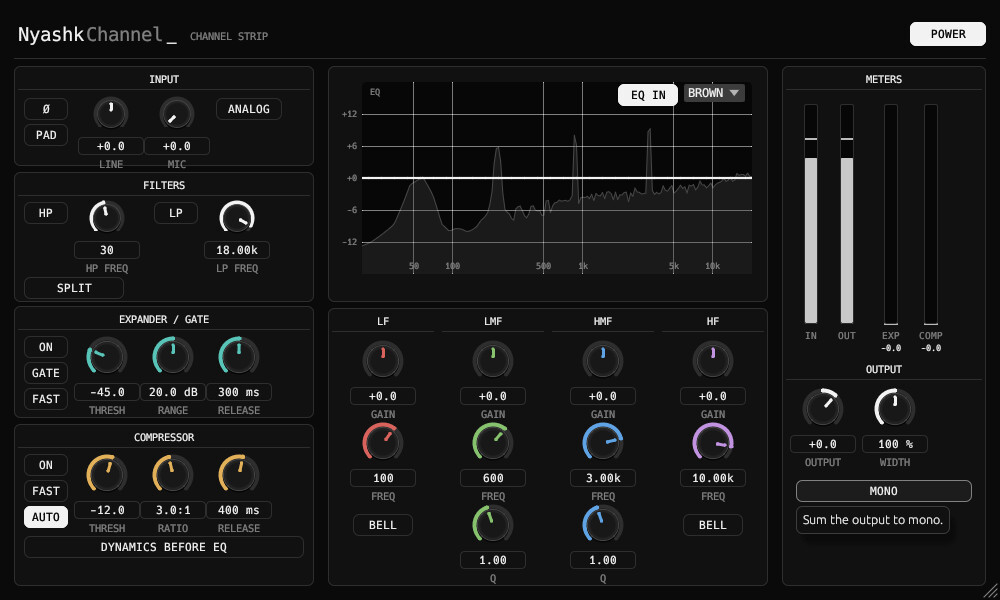
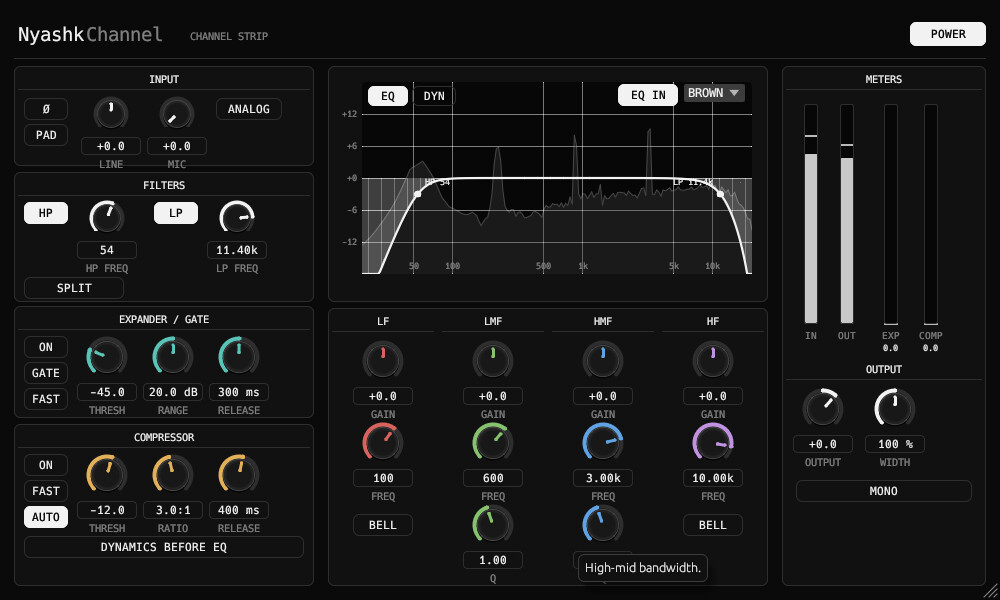
v1.0.2: HP/LP filters on the graph, DYN view (expander/compressor curve), value boxes no longer run into each other
Claude-Session: https://claude.ai/code/session_013jKKu2jZ6gVHt6eEoTXE3F

diff --git a/plugins/nyashkchannel/src/editor.rs b/plugins/nyashkchannel/src/editor.rs
@@ -19,6 +19,8 @@ struct Gui {
     lv: [f32; 4],
     hold: [f32; 4],
     gr: [f32; 2],
+    /// graph view: false = EQ + filters, true = dynamics curve
+    dyn_view: bool,
 }
 
 pub fn create(params: Arc<ChannelParams>, meters: Arc<Meters>) -> Option<Box<dyn Editor>> {
@@ -26,7 +28,7 @@ pub fn create(params: Arc<ChannelParams>, meters: Arc<Meters>) -> Option<Box<dyn
     let size_state = editor_state.clone();
     create_egui_editor(
         editor_state,
-        Gui { spec: nyashk_common::analyzer::Spectrum::new(4096), lv: [-90.0; 4], hold: [-90.0; 4], gr: [0.0; 2] },
+        Gui { spec: nyashk_common::analyzer::Spectrum::new(4096), lv: [-90.0; 4], hold: [-90.0; 4], gr: [0.0; 2], dyn_view: false },
         |ctx, _| apply_theme(ctx),
         move |ctx, setter, st| {
             ctx.request_repaint_after(Duration::from_millis(33));
@@ -85,9 +87,13 @@ pub fn create(params: Arc<ChannelParams>, meters: Arc<Meters>) -> Option<Box<dyn
                 panel(ui, rect(lx, 172.0, lw, 130.0));
                 title("FILTERS", lx, 172.0, lw);
                 tg(ui, lx + 10.0, 202.0, 44.0, "HP", p.hp_on.value(), &p.hp_on, "High-pass filter (18 dB/oct).");
-                knob_r(ui, setter, &p.hp_f, "HP FREQ", rect(lx + 60.0, 196.0, cw, 72.0), "High-pass frequency.", false, r - 3.0);
+                if knob_r(ui, setter, &p.hp_f, "HP FREQ", rect(lx + 60.0, 196.0, cw, 72.0), "High-pass frequency.", false, r - 3.0).total.is_some() {
+                    st.dyn_view = false;
+                }
                 tg(ui, lx + 140.0, 202.0, 44.0, "LP", p.lp_on.value(), &p.lp_on, "Low-pass filter (12 dB/oct).");
-                knob_r(ui, setter, &p.lp_f, "LP FREQ", rect(lx + 190.0, 196.0, cw, 72.0), "Low-pass frequency.", false, r - 3.0);
+                if knob_r(ui, setter, &p.lp_f, "LP FREQ", rect(lx + 190.0, 196.0, cw, 72.0), "Low-pass frequency.", false, r - 3.0).total.is_some() {
+                    st.dyn_view = false;
+                }
                 tg(ui, lx + 10.0, 277.0, 100.0, "SPLIT", p.split.value(), &p.split, "Filters act on the dynamics sidechain only, not on the audio.");
 
                 // expander / gate
@@ -96,8 +102,12 @@ pub fn create(params: Arc<ChannelParams>, meters: Arc<Meters>) -> Option<Box<dyn
                 tg(ui, lx + 10.0, 336.0, 44.0, "ON", p.x_on.value(), &p.x_on, "Switch the expander on.");
                 tg(ui, lx + 10.0, 362.0, 44.0, "GATE", p.x_gate.value(), &p.x_gate, "Hard gate instead of a soft expander.");
                 tg(ui, lx + 10.0, 388.0, 44.0, "FAST", p.x_fast.value(), &p.x_fast, "Fast attack.");
-                knob_ac(ui, setter, &p.x_thr, "THRESH", rect(lx + 60.0, 332.0, cw, ch), "Level below which the signal is reduced.", false, r, C_GATE);
-                knob_ac(ui, setter, &p.x_range, "RANGE", rect(lx + 60.0 + cw, 332.0, cw, ch), "Maximum reduction in dB.", false, r, C_GATE);
+                if knob_ac(ui, setter, &p.x_thr, "THRESH", rect(lx + 60.0, 332.0, cw, ch), "Level below which the signal is reduced.", false, r, C_GATE).total.is_some() {
+                    st.dyn_view = true;
+                }
+                if knob_ac(ui, setter, &p.x_range, "RANGE", rect(lx + 60.0 + cw, 332.0, cw, ch), "Maximum reduction in dB.", false, r, C_GATE).total.is_some() {
+                    st.dyn_view = true;
+                }
                 knob_ac(ui, setter, &p.x_rel, "RELEASE", rect(lx + 60.0 + cw * 2.0, 332.0, cw, ch), "Release time.", false, r, C_GATE);
 
                 // compressor
@@ -106,8 +116,12 @@ pub fn create(params: Arc<ChannelParams>, meters: Arc<Meters>) -> Option<Box<dyn
                 tg(ui, lx + 10.0, 454.0, 44.0, "ON", p.c_on.value(), &p.c_on, "Switch the compressor on.");
                 tg(ui, lx + 10.0, 480.0, 44.0, "FAST", p.c_fast.value(), &p.c_fast, "Fast attack.");
                 tg(ui, lx + 10.0, 506.0, 44.0, "AUTO", p.c_auto.value(), &p.c_auto, "Automatic makeup gain.");
-                knob_ac(ui, setter, &p.c_thr, "THRESH", rect(lx + 60.0, 450.0, cw, ch), "Level above which compression starts.", false, r, C_DYN);
-                knob_ac(ui, setter, &p.c_ratio, "RATIO", rect(lx + 60.0 + cw, 450.0, cw, ch), "Compression ratio.", false, r, C_DYN);
+                if knob_ac(ui, setter, &p.c_thr, "THRESH", rect(lx + 60.0, 450.0, cw, ch), "Level above which compression starts.", false, r, C_DYN).total.is_some() {
+                    st.dyn_view = true;
+                }
+                if knob_ac(ui, setter, &p.c_ratio, "RATIO", rect(lx + 60.0 + cw, 450.0, cw, ch), "Compression ratio.", false, r, C_DYN).total.is_some() {
+                    st.dyn_view = true;
+                }
                 knob_ac(ui, setter, &p.c_rel, "RELEASE", rect(lx + 60.0 + cw * 2.0, 450.0, cw, ch), "Release time.", false, r, C_DYN);
                 let dp = p.dyn_post.value();
                 tg(ui, lx + 10.0, 536.0, lw - 20.0, if dp { "DYNAMICS AFTER EQ" } else { "DYNAMICS BEFORE EQ" }, dp, &p.dyn_post, "Choose whether the dynamics come before or after the EQ.");
@@ -121,35 +135,121 @@ pub fn create(params: Arc<ChannelParams>, meters: Arc<Meters>) -> Option<Box<dyn
                 let (f_lo, f_hi, d_r) = (20.0f32, 20000.0f32, 18.0f32);
                 let fxf = |f: f32| g.left() + g.width() * (f / f_lo).ln() / (f_hi / f_lo).ln();
                 let dyf = |d: f32| g.center().y - g.height() * 0.5 * (d / d_r).clamp(-1.0, 1.0);
-                for d in [-12.0f32, -6.0, 0.0, 6.0, 12.0] {
-                    painter.hline(g.left()..=g.right(), dyf(d), Stroke::new(1.0, if d == 0.0 { MID } else { LINE }));
-                    painter.text(Pos2::new(g.left() - 5.0, dyf(d)), Align2::RIGHT_CENTER, format!("{:+.0}", d), mono(9.0), DIM);
+                if !st.dyn_view {
+                    for d in [-12.0f32, -6.0, 0.0, 6.0, 12.0] {
+                        painter.hline(g.left()..=g.right(), dyf(d), Stroke::new(1.0, if d == 0.0 { MID } else { LINE }));
+                        painter.text(Pos2::new(g.left() - 5.0, dyf(d)), Align2::RIGHT_CENTER, format!("{:+.0}", d), mono(9.0), DIM);
+                    }
+                    for f in [50.0f32, 100.0, 500.0, 1000.0, 5000.0, 10000.0] {
+                        painter.vline(fxf(f), g.top()..=g.bottom(), Stroke::new(1.0, LINE));
+                        painter.text(Pos2::new(fxf(f), g.bottom() - 8.0), Align2::CENTER_CENTER, if f >= 1000.0 { format!("{}k", f / 1000.0) } else { format!("{}", f) }, mono(9.0), DIM);
+                    }
+                    // live output spectrum behind the curve (tilted so pink noise looks flat)
+                    let spy = |d: f32| g.bottom() - g.height() * ((d + 90.0) / 90.0).clamp(-0.05, 1.05);
+                    let sp = st.spec.points(fs, f_lo, f_hi.min(fs * 0.49), 180, 4.5, fxf, spy);
+                    nyashk_common::analyzer::draw_spectrum(&painter, g, &sp, Color32::from_gray(26), Color32::from_gray(72));
+                    for d in [-12.0f32, -6.0, 6.0, 12.0] {
+                        painter.with_clip_rect(g).hline(g.left()..=g.right(), dyf(d), Stroke::new(1.0, Color32::from_white_alpha(6)));
+                    }
+                    for f in [50.0f32, 100.0, 500.0, 1000.0, 5000.0, 10000.0] {
+                        painter.with_clip_rect(g).vline(fxf(f), g.top()..=g.bottom(), Stroke::new(1.0, Color32::from_white_alpha(5)));
+                        painter.text(Pos2::new(fxf(f), g.bottom() - 8.0), Align2::CENTER_CENTER, if f >= 1000.0 { format!("{}k", f / 1000.0) } else { format!("{}", f) }, mono(9.0), DIM);
+                    }
                 }
-                for f in [50.0f32, 100.0, 500.0, 1000.0, 5000.0, 10000.0] {
-                    painter.vline(fxf(f), g.top()..=g.bottom(), Stroke::new(1.0, LINE));
-                    painter.text(Pos2::new(fxf(f), g.bottom() - 8.0), Align2::CENTER_CENTER, if f >= 1000.0 { format!("{}k", f / 1000.0) } else { format!("{}", f) }, mono(9.0), DIM);
+                let gclip = painter.with_clip_rect(g);
+                if !st.dyn_view {
+                    let eq_on = p.eq_on.value() && on;
+                    let cf = EqCoefs::new(fs, &p.eq_cfg());
+                    let (hp_on, lp_on, split) = (p.hp_on.value() && on, p.lp_on.value() && on, p.split.value());
+                    let filt = |f: f32| crate::dsp::filter_response_db(fs, hp_on, p.hp_f.value(), lp_on, p.lp_f.value(), f);
+                    let n = 240;
+                    let fr = |i: usize| f_lo * (f_hi / f_lo).powf(i as f32 / n as f32);
+                    // filters on their own (dashed when they only feed the dynamics sidechain)
+                    if hp_on || lp_on {
+                        let fp: Vec<Pos2> = (0..=n).map(|i| Pos2::new(fxf(fr(i)), dyf(filt(fr(i))))).collect();
+                        if split {
+                            for w in fp.chunks(6).step_by(2) {
+                                gclip.add(egui::Shape::line(w.to_vec(), PathStroke::new(1.5, MID)));
+                            }
+                        } else {
+                            nyashk_common::ui::fill_under(&gclip, &fp, dyf(0.0), Color32::from_white_alpha(10));
+                            gclip.add(egui::Shape::line(fp, PathStroke::new(1.2, MID)));
+                        }
+                        for (on_f, f, name) in [(hp_on, p.hp_f.value(), "HP"), (lp_on, p.lp_f.value(), "LP")] {
+                            if on_f {
+                                let x = fxf(f.clamp(f_lo, f_hi));
+                                let y = dyf(filt(f)).min(g.bottom() - 30.0);
+                                gclip.circle_filled(Pos2::new(x, y), 3.5, WHITE);
+                                let label = if f >= 1000.0 { format!("{name} {:.1}k", f / 1000.0) } else { format!("{name} {:.0}", f) };
+                                let al = if name == "HP" { Align2::LEFT_CENTER } else { Align2::RIGHT_CENTER };
+                                let dx = if name == "HP" { 7.0 } else { -7.0 };
+                                gclip.text(Pos2::new(x + dx, y - 12.0), al, label, mono(9.0), WHITE);
+                            }
+                        }
+                        if split {
+                            gclip.text(Pos2::new(g.right() - 8.0, g.bottom() - 22.0), Align2::RIGHT_CENTER, "FILTERS: SIDECHAIN ONLY", mono(9.0), DIM);
+                        }
+                    }
+                    // total: EQ (+ filters when they are in the audio path)
+                    let pts: Vec<Pos2> = (0..=n)
+                        .map(|i| {
+                            let f = fr(i);
+                            let mut d = if eq_on { cf.response_db(fs, f) } else { 0.0 };
+                            if !split {
+                                d += filt(f);
+                            }
+                            Pos2::new(fxf(f), dyf(d))
+                        })
+                        .collect();
+                    gclip.add(egui::Shape::line(pts, PathStroke::new(2.2, if eq_on || hp_on || lp_on { WHITE } else { DIM })));
+                } else {
+                    // dynamics: output level against input level, -60..0 dB, over the spectrum area
+                    painter.rect_filled(g, 4.0, Color32::from_rgb(0x07, 0x07, 0x07));
+                    let sq = g.height();
+                    let d = Rect::from_center_size(g.center() + Vec2::new(10.0, 4.0), Vec2::new(sq * 1.55, sq - 44.0));
+                    let (lo, hi) = (-60.0f32, 0.0f32);
+                    let dx = |v: f32| d.left() + d.width() * ((v - lo) / (hi - lo)).clamp(0.0, 1.0);
+                    let dyy = |v: f32| d.bottom() - d.height() * ((v - lo) / (hi - lo)).clamp(-0.02, 1.02);
+                    for v in [-48.0f32, -36.0, -24.0, -12.0] {
+                        gclip.vline(dx(v), d.top()..=d.bottom(), Stroke::new(1.0, LINE));
+                        gclip.hline(d.left()..=d.right(), dyy(v), Stroke::new(1.0, LINE));
+                        gclip.text(Pos2::new(dx(v), d.bottom() + 8.0), Align2::CENTER_CENTER, format!("{v:.0}"), mono(8.5), DIM);
+                        gclip.text(Pos2::new(d.left() - 4.0, dyy(v)), Align2::RIGHT_CENTER, format!("{v:.0}"), mono(8.5), DIM);
+                    }
+                    gclip.rect_stroke(d, 0.0, Stroke::new(1.0, LINE), egui::StrokeKind::Inside);
+                    gclip.line_segment([Pos2::new(dx(lo), dyy(lo)), Pos2::new(dx(hi), dyy(hi))], Stroke::new(1.0, MID));
+                    let (x_on, c_on) = (p.x_on.value() && on, p.c_on.value() && on);
+                    let tf = |v: f32| crate::dsp::dyn_transfer_db(v, x_on, p.x_gate.value(), p.x_thr.value(), p.x_range.value(), c_on, p.c_thr.value(), p.c_ratio.value(), p.c_auto.value());
+                    if x_on {
+                        let x = dx(p.x_thr.value());
+                        gclip.vline(x, d.top()..=d.bottom(), Stroke::new(1.0, C_GATE.gamma_multiply(0.6)));
+                        gclip.text(Pos2::new(x + 4.0, d.bottom() - 10.0), Align2::LEFT_CENTER, if p.x_gate.value() { "GATE" } else { "EXP" }, mono(9.0), C_GATE);
+                    }
+                    if c_on {
+                        let x = dx(p.c_thr.value());
+                        gclip.vline(x, d.top()..=d.bottom(), Stroke::new(1.0, C_DYN.gamma_multiply(0.6)));
+                        gclip.text(Pos2::new(x - 4.0, d.bottom() - 10.0), Align2::RIGHT_CENTER, "COMP", mono(9.0), C_DYN);
+                    }
+                    let n = 160;
+                    let pts: Vec<Pos2> = (0..=n).map(|i| { let v = lo + (hi - lo) * i as f32 / n as f32; Pos2::new(dx(v), dyy(tf(v))) }).collect();
+                    gclip.add(egui::Shape::line(pts, PathStroke::new(2.2, WHITE)));
+                    // live level on the curve
+                    let lvl = cur[0];
+                    if lvl > lo {
+                        let pnt = Pos2::new(dx(lvl), dyy(tf(lvl)));
+                        gclip.circle_filled(pnt, 6.0, Color32::from_white_alpha(40));
+                        gclip.circle_filled(pnt, 3.5, WHITE);
+                    }
+                    gclip.text(Pos2::new(d.right(), d.bottom() + 8.0), Align2::RIGHT_CENTER, "IN dB", mono(8.5), DIM);
+                    gclip.text(Pos2::new(d.left() - 4.0, d.top() + 2.0), Align2::RIGHT_CENTER, "OUT", mono(8.5), DIM);
                 }
-                // live output spectrum behind the curve (tilted so pink noise looks flat)
-                let spy = |d: f32| g.bottom() - g.height() * ((d + 90.0) / 90.0).clamp(-0.05, 1.05);
-                let sp = st.spec.points(fs, f_lo, f_hi.min(fs * 0.49), 180, 4.5, fxf, spy);
-                nyashk_common::analyzer::draw_spectrum(&painter, g, &sp, Color32::from_gray(26), Color32::from_gray(72));
-                for d in [-12.0f32, -6.0, 6.0, 12.0] {
-                    painter.with_clip_rect(g).hline(g.left()..=g.right(), dyf(d), Stroke::new(1.0, Color32::from_white_alpha(6)));
+                // view tabs
+                if pill_tip(ui, rect(cx + 40.0, 86.0, 40.0, 20.0), "EQ", !st.dyn_view, "EQ curve with the HP / LP filters.") {
+                    st.dyn_view = false;
                 }
-                for f in [50.0f32, 100.0, 500.0, 1000.0, 5000.0, 10000.0] {
-                    painter.with_clip_rect(g).vline(fxf(f), g.top()..=g.bottom(), Stroke::new(1.0, Color32::from_white_alpha(5)));
-                    painter.text(Pos2::new(fxf(f), g.bottom() - 8.0), Align2::CENTER_CENTER, if f >= 1000.0 { format!("{}k", f / 1000.0) } else { format!("{}", f) }, mono(9.0), DIM);
+                if pill_tip(ui, rect(cx + 84.0, 86.0, 44.0, 20.0), "DYN", st.dyn_view, "Expander / gate and compressor curve: output level against input level, with the live level.") {
+                    st.dyn_view = true;
                 }
-                let eq_on = p.eq_on.value() && on;
-                let cf = EqCoefs::new(fs, &p.eq_cfg());
-                let pts: Vec<Pos2> = (0..=240)
-                    .map(|i| {
-                        let f = f_lo * (f_hi / f_lo).powf(i as f32 / 240.0);
-                        Pos2::new(fxf(f), dyf(if eq_on { cf.response_db(fs, f) } else { 0.0 }))
-                    })
-                    .collect();
-                painter.with_clip_rect(g).add(egui::Shape::line(pts, PathStroke::new(2.2, if eq_on { WHITE } else { DIM })));
-                painter.text(Pos2::new(g.left() + 8.0, g.top() + 10.0), Align2::LEFT_CENTER, "EQ", mono(9.0), DIM);
                 tg(ui, cx + cwid - 150.0, 84.0, 60.0, "EQ IN", p.eq_on.value(), &p.eq_on, "Switch the EQ section in or out.");
                 enum_combo(ui, setter, &p.voice, "ch_voice", rect(cx + cwid - 84.0, 84.0, 70.0, 22.0));
 
@@ -203,7 +303,7 @@ pub fn create(params: Arc<ChannelParams>, meters: Arc<Meters>) -> Option<Box<dyn
                     let rr = Rect::from_min_size(Pos2::new(bx, bt), Vec2::new(14.0, bh));
                     vbar(ui, rr, st.gr[i], st.gr[i], 0.0, 20.0);
                     painter.text(Pos2::new(rr.center().x, rr.bottom() + 11.0), Align2::CENTER_CENTER, name, mono(9.5), DIM);
-                    painter.text(Pos2::new(rr.center().x, rr.bottom() + 24.0), Align2::CENTER_CENTER, format!("-{:.1}", st.gr[i]), mono(9.0), WHITE);
+                    painter.text(Pos2::new(rr.center().x, rr.bottom() + 24.0), Align2::CENTER_CENTER, if st.gr[i] < 0.05 { "0.0".to_string() } else { format!("-{:.1}", st.gr[i]) }, mono(9.0), WHITE);
                     bx += 40.0;
                 }
                 title("OUTPUT", rx, 356.0, rw);

diff --git a/crates/common/src/ui.rs b/crates/common/src/ui.rs
@@ -147,7 +147,8 @@ pub fn knob_ac<P: Param>(ui: &mut Ui, setter: &ParamSetter, p: &P, label: &str, 
 
     // value + label (click the value box to type a number)
     let val = p.normalized_value_to_string(norm, true);
-    let vr = Rect::from_center_size(Pos2::new(cell.center().x, c.y + r + 14.0), Vec2::new(cell.width().min(84.0), 18.0));
+    // a small gap to the neighbouring boxes
+    let vr = Rect::from_center_size(Pos2::new(cell.center().x, c.y + r + 14.0), Vec2::new((cell.width() - 6.0).min(84.0), 18.0));
     let edit_id = egui::Id::new(("knob_edit", label, p.name()));
     let editing: Option<String> = ui.data(|d| d.get_temp::<String>(edit_id));
     painter_label(ui, cell, vr, label);
@@ -180,7 +181,10 @@ pub fn knob_ac<P: Param>(ui: &mut Ui, setter: &ParamSetter, p: &P, label: &str, 
         let vresp = ui.allocate_rect(vr, Sense::click()).on_hover_text("Click to type a value");
         let painter = ui.painter();
         painter.rect_stroke(vr, CornerRadius::same(4), Stroke::new(1.0, if vresp.hovered() { DIM } else { LINE }), StrokeKind::Inside);
-        painter.text(vr.center(), Align2::CENTER_CENTER, &val, mono(11.0), WHITE);
+        // shrink the text if it would not fit the box
+        let gw = ui.fonts(|f| f.layout_no_wrap(val.clone(), mono(11.0), WHITE).size().x);
+        let size = if gw > vr.width() - 6.0 { (11.0 * (vr.width() - 6.0) / gw).max(7.5) } else { 11.0 };
+        painter.text(vr.center(), Align2::CENTER_CENTER, &val, mono(size), WHITE);
         if vresp.clicked() {
             let plain = val.trim().split(' ').next().unwrap_or("").to_string();
             ui.data_mut(|d| d.insert_temp(edit_id, plain));

diff --git a/plugins/nyashkchannel/src/dsp.rs b/plugins/nyashkchannel/src/dsp.rs
@@ -71,6 +71,35 @@ impl Default for Params {
     }
 }
 
+/// Magnitude (dB) of the HP (18 dB/oct) and LP (12 dB/oct) filters at `f`, for the display.
+pub fn filter_response_db(fs: f32, hp_on: bool, hp_f: f32, lp_on: bool, lp_f: f32, f: f32) -> f32 {
+    let mut d = 0.0;
+    if hp_on {
+        let hpf = hp_f.max(10.0);
+        d += Coef::highpass1(fs, hpf).response_db(fs, f) + Coef::highpass(fs, hpf, 1.0).response_db(fs, f);
+    }
+    if lp_on {
+        d += Coef::lowpass(fs, lp_f, 0.7071).response_db(fs, f);
+    }
+    d
+}
+
+/// Static curve of the expander / gate and the compressor: output level (dB) for a steady input level.
+#[allow(clippy::too_many_arguments)]
+pub fn dyn_transfer_db(in_db: f32, x_on: bool, x_gate: bool, x_thr: f32, x_range: f32, c_on: bool, c_thr: f32, c_ratio: f32, c_auto: bool) -> f32 {
+    let mut out = in_db;
+    if x_on {
+        out += expander_gain_db(in_db, x_thr, if x_gate { 12.0 } else { 2.0 }, x_range);
+    }
+    if c_on {
+        out += comp_gain_db(in_db, c_thr, c_ratio, 4.0);
+        if c_auto {
+            out += auto_makeup_db(c_thr, c_ratio);
+        }
+    }
+    out
+}
+
 /// Gain computer of the compressor (soft knee). Returns gain in dB (<= 0).
 pub fn comp_gain_db(in_db: f32, thr: f32, ratio: f32, knee: f32) -> f32 {
     let over = in_db - thr;

diff --git a/plugins/nyashkchannel/tests/value_text.rs b/plugins/nyashkchannel/tests/value_text.rs
@@ -1,0 +1,23 @@
+//! Every parameter's display text must fit the value boxes (9 monospace characters).
+use nih_plug::prelude::*;
+
+#[test]
+fn value_texts_fit_their_boxes() {
+    let p = nyashkchannel::ChannelParams::default();
+    let mut worst = Vec::new();
+    for (id, ptr, _) in p.param_map() {
+        for i in 0..=400 {
+            let n = i as f32 / 400.0;
+            let s = unsafe { ptr.normalized_value_to_string(n, true) };
+            let len = s.chars().count();
+            if len > 9 {
+                worst.push(format!("{id}: '{s}' ({len})"));
+                break;
+            }
+        }
+    }
+    for w in &worst {
+        println!("too long: {w}");
+    }
+    assert!(worst.is_empty(), "{} parameters print longer than the box", worst.len());
+}

diff --git a/RELEASE_NOTES.md b/RELEASE_NOTES.md
@@ -1,3 +1,10 @@
+## NyashkChannel 1.0.2
+
+- **Filters on the graph:** the HP and LP filters are now part of the EQ curve, with markers and their frequencies (dashed when SPLIT sends them to the dynamics sidechain only).
+- **DYN view:** a second graph view shows the expander / gate and compressor curve (output level against input level) with the thresholds and the live level moving on the curve. It opens by itself while you turn a dynamics knob; EQ / DYN buttons switch by hand.
+- Value boxes have a gap between them, and a value that would not fit its box is drawn smaller instead of running over the frame.
+- Gain reduction read-outs show 0.0 instead of -0.0.
+
 ## NyashkChannel 1.0.1
 
 - **Live spectrum:** the output spectrum now runs behind the EQ curve.
